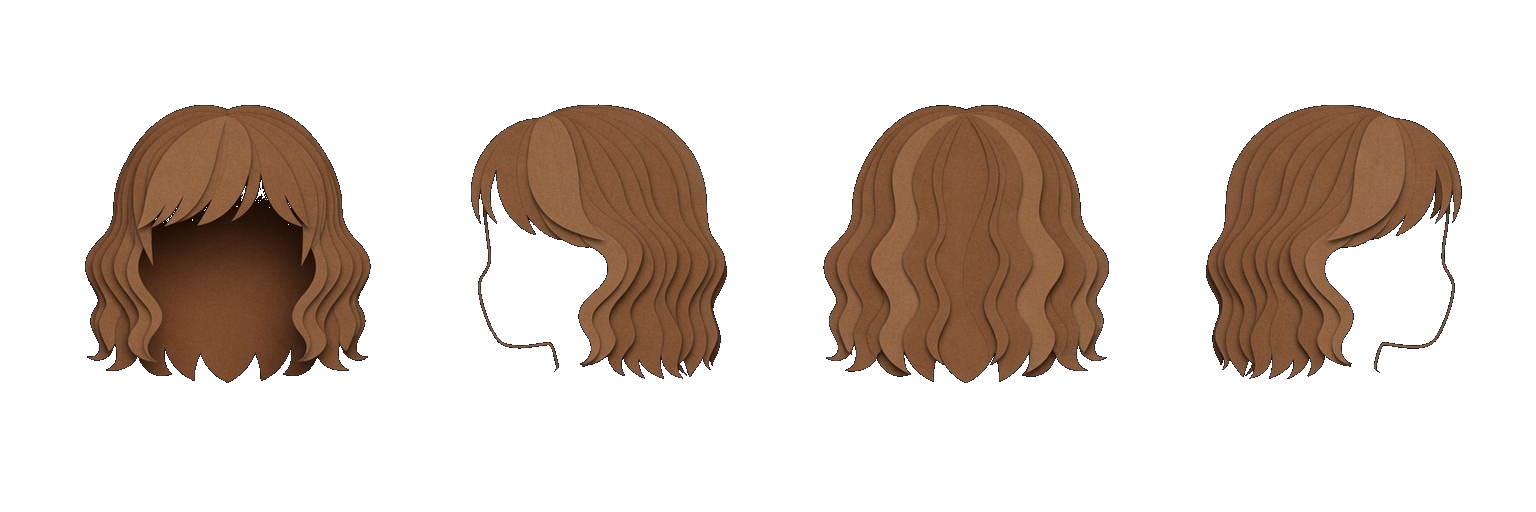
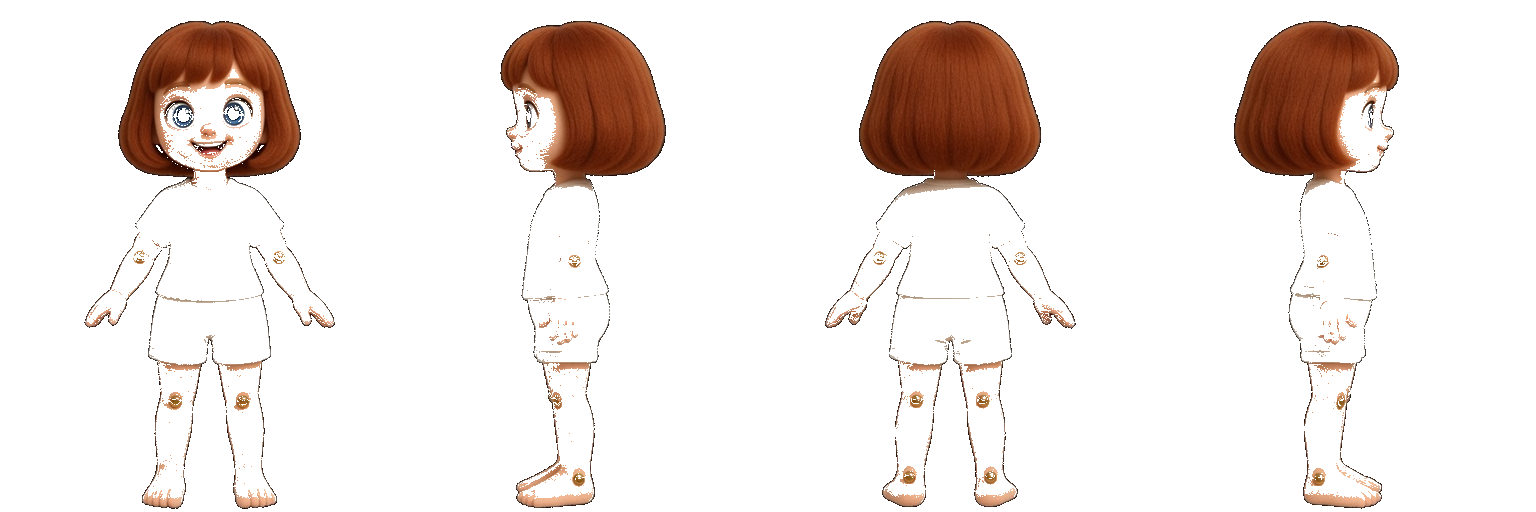
Give the girl full-head hair and a shelf of new mix-and-match collections.
Pigtails, bob, curls and waves cover the scalp. Twelve theme books open with clothes, hair and hats drawn on her real turnaround.

diff --git a/penny-fever/world/paper-dolls.js b/penny-fever/world/paper-dolls.js
@@ -1,5 +1,5 @@
 const ROOT = new URL('../assets/restyle/paper-dolls/', import.meta.url);
-const STORE = 'pf-paper-dolls-v8';
+const STORE = 'pf-paper-dolls-v9';
 const W = 1536, H = 512, CELL = 384;
 const images = new Map();
 const strips = new Map();
@@ -25,19 +25,31 @@ export const EYE_COLORS = [
 export const HAIR_STYLES = [
   { id: 'none', label: 'None' },
   { id: 'pigtails', label: 'Pigtails', fit: 'sheet' },
-  { id: 'short', label: 'Short curls', fit: 'head' },
+  { id: 'bob', label: 'Bob', fit: 'sheet' },
+  { id: 'curls', label: 'Curls', fit: 'sheet' },
+  { id: 'waves', label: 'Waves', fit: 'sheet' },
 ];
 export const HATS = [
   { id: 'none', label: 'None' },
   { id: 'straw', label: 'Straw hat' },
   { id: 'sailor', label: 'Sailor cap' },
+  { id: 'rain', label: 'Rain hat' },
+  { id: 'crown', label: 'Crown' },
 ];
 export const OUTFITS = [
   { id: 'none', label: 'Undershirt', book: null },
-  { id: 'garden', label: 'Garden party', book: 'garden-party-book' },
-  { id: 'seaside', label: 'Seaside day', book: 'seaside-day-book' },
-  { id: 'winter', label: 'Winter lantern', book: 'winter-lantern-book' },
-  { id: 'moonlight', label: 'Moonlight', book: 'moonlight-wardrobe' },
+  { id: 'garden', label: 'Rose pinafore' },
+  { id: 'seaside', label: 'Sailor set' },
+  { id: 'winter', label: 'Starry coat' },
+  { id: 'moonlight', label: 'Moon pinafore' },
+  { id: 'floss', label: 'Candy stripe' },
+  { id: 'picnic', label: 'Gingham picnic' },
+  { id: 'rain', label: 'Yellow mac' },
+  { id: 'bedtime', label: 'Star pyjamas' },
+  { id: 'midway', label: 'Admit one' },
+  { id: 'sunday', label: 'Sunday best' },
+  { id: 'fortune', label: 'Mystic lilac' },
+  { id: 'ballet', label: 'Ballet wrap' },
 ];
 export const DOLL_PAGES = {
   garden: 'assets/restyle/paper-dolls/pages/garden.jpg',
@@ -50,49 +62,22 @@ export const DOLL_PAGES = {
   'moonlight-wardrobe': 'assets/restyle/paper-dolls/pages/moonlight.jpg',
 };
 const P = 'assets/restyle/paper-dolls';
+const hair = (id, label) => ({ slot: 'hair', id, label, src: `${P}/hair/${id}.png` });
+const hat = (id, label) => ({ slot: 'hat', id, label, src: `${P}/hats/${id}.png` });
+const clothes = (id, label) => ({ slot: 'outfit', id, label, src: `${P}/outfits/${id}.png` });
 export const COLLECTIONS = [
-  {
-    id: 'garden',
-    label: 'Garden party',
-    book: 'garden-party-book',
-    page: DOLL_PAGES.garden,
-    pieces: [
-      { slot: 'hair', id: 'pigtails', label: 'Pigtails', src: `${P}/hair/pigtails.png` },
-      { slot: 'hat', id: 'straw', label: 'Straw hat', src: `${P}/hats/straw.png` },
-      { slot: 'outfit', id: 'garden', label: 'Rose pinafore', src: `${P}/outfits/garden.png`, includesHat: true },
-    ],
-  },
-  {
-    id: 'seaside',
-    label: 'Seaside day',
-    book: 'seaside-day-book',
-    page: DOLL_PAGES.seaside,
-    pieces: [
-      { slot: 'hair', id: 'short', label: 'Short curls', src: `${P}/hair/short.png` },
-      { slot: 'hat', id: 'sailor', label: 'Sailor cap', src: `${P}/hats/sailor.png` },
-      { slot: 'outfit', id: 'seaside', label: 'Sailor set', src: `${P}/outfits/seaside.png`, includesHat: true },
-    ],
-  },
-  {
-    id: 'winter',
-    label: 'Winter lantern',
-    book: 'winter-lantern-book',
-    page: DOLL_PAGES.winter,
-    pieces: [
-      { slot: 'hair', id: 'pigtails', label: 'Pigtails', src: `${P}/hair/pigtails.png` },
-      { slot: 'outfit', id: 'winter', label: 'Starry coat', src: `${P}/outfits/winter.png` },
-    ],
-  },
-  {
-    id: 'moonlight',
-    label: 'Moonlight',
-    book: 'moonlight-wardrobe',
-    page: DOLL_PAGES.moonlight,
-    pieces: [
-      { slot: 'hair', id: 'pigtails', label: 'Pigtails', src: `${P}/hair/pigtails.png` },
-      { slot: 'outfit', id: 'moonlight', label: 'Moon pinafore', src: `${P}/outfits/moonlight.png` },
-    ],
-  },
+  { id: 'garden', label: 'Garden party', page: DOLL_PAGES.garden, pieces: [hair('pigtails','Pigtails'), hair('bob','Bob'), hat('straw','Straw hat'), clothes('garden','Rose pinafore')] },
+  { id: 'seaside', label: 'Seaside day', page: DOLL_PAGES.seaside, pieces: [hair('curls','Curls'), hair('waves','Waves'), hat('sailor','Sailor cap'), clothes('seaside','Sailor set')] },
+  { id: 'winter', label: 'Winter lantern', page: DOLL_PAGES.winter, pieces: [hair('waves','Waves'), hair('bob','Bob'), clothes('winter','Starry coat')] },
+  { id: 'moonlight', label: 'Moonlight', page: DOLL_PAGES.moonlight, pieces: [hair('waves','Waves'), hair('pigtails','Pigtails'), clothes('moonlight','Moon pinafore')] },
+  { id: 'floss', label: 'Fairy floss', page: `${P}/outfits/floss.png`, pieces: [hair('pigtails','Pigtails'), hair('curls','Curls'), clothes('floss','Candy stripe')] },
+  { id: 'picnic', label: 'Picnic', page: `${P}/outfits/picnic.png`, pieces: [hair('bob','Bob'), hair('pigtails','Pigtails'), clothes('picnic','Gingham')] },
+  { id: 'rain', label: 'Rainy day', page: `${P}/outfits/rain.png`, pieces: [hair('bob','Bob'), hair('waves','Waves'), hat('rain','Rain hat'), clothes('rain','Yellow mac')] },
+  { id: 'bedtime', label: 'Bedtime', page: `${P}/outfits/bedtime.png`, pieces: [hair('waves','Waves'), hair('curls','Curls'), clothes('bedtime','Star pyjamas')] },
+  { id: 'midway', label: 'Admit one', page: `${P}/outfits/midway.png`, pieces: [hair('pigtails','Pigtails'), hair('curls','Curls'), hat('crown','Crown'), clothes('midway','Ticket pinafore')] },
+  { id: 'sunday', label: 'Sunday best', page: `${P}/outfits/sunday.png`, pieces: [hair('bob','Bob'), hair('waves','Waves'), clothes('sunday','Navy pinafore')] },
+  { id: 'fortune', label: 'Iris’s hour', page: `${P}/outfits/fortune.png`, pieces: [hair('waves','Waves'), hair('bob','Bob'), clothes('fortune','Mystic lilac')] },
+  { id: 'ballet', label: 'Ballet', page: `${P}/outfits/ballet.png`, pieces: [hair('bob','Bob'), hair('pigtails','Pigtails'), clothes('ballet','Wrap and tutu')] },
 ];
 export const NOSES = [
   { id: 'none', label: 'None' },

diff --git a/penny-fever/world/crew-selector.css b/penny-fever/world/crew-selector.css
@@ -12,7 +12,7 @@ dialog.crew-book.is-open,dialog.crew-book[open]{display:block;position:fixed;ins
 .doll-torso-preview{display:flex;flex-direction:column;align-items:center;padding:10px 12px 6px;background:#fffaf0;border:1px solid #c4a46a;border-radius:12px}
 .doll-maker-parts{flex:1;min-width:220px}
 .crew-collections .ticket-button{margin-top:10px}
-.doll-books{display:grid;grid-template-columns:1fr 1fr;gap:8px;margin:12px 0 8px}
+.doll-books{display:grid;grid-template-columns:repeat(3,1fr);gap:8px;margin:12px 0 8px}
 .doll-books button{padding:0;border:2px solid #c4a46a;background:#fffaf0;color:#382816;cursor:pointer;border-radius:8px;overflow:hidden;text-align:left}
 .doll-books button[aria-pressed=true],.doll-books button.is-on{border-color:#435637}
 .doll-books img{display:block;width:100%;height:auto}
@@ -57,6 +57,6 @@ dialog.crew-book.is-open,dialog.crew-book[open]{display:block;position:fixed;ins
 .crew-book.is-open-album #dollCollection{flex:1;min-height:0;overflow:auto}
 .crew-book.is-open-album .doll-piece-thumb{width:52px;height:70px;flex-basis:52px}
 .crew-book.is-open-album .doll-chip.doll-piece{border-radius:10px;padding:6px 10px 6px 6px}
-@media(max-width:640px){.crew-grid{grid-template-columns:repeat(3,1fr)}.crew-runway{height:240px}.crew-book{padding:18px}.doll-torso-preview{width:100%}.doll-maker-parts{width:100%}.crew-book.is-open-album{height:96dvh;padding:12px}.crew-book.is-open-album .doll-torso-row{flex-direction:column}.crew-book.is-open-album .doll-preview-stage{width:110px;height:146px}}
+@media(max-width:640px){.crew-grid{grid-template-columns:repeat(3,1fr)}.crew-runway{height:240px}.crew-book{padding:18px}.doll-torso-preview{width:100%}.doll-maker-parts{width:100%}.doll-books{grid-template-columns:1fr 1fr}.crew-book.is-open-album{height:96dvh;padding:12px}.crew-book.is-open-album .doll-torso-row{flex-direction:column}.crew-book.is-open-album .doll-preview-stage{width:110px;height:146px}}
 
 .crew-entry{display:flex;align-items:center;gap:14px;text-align:left}.crew-entry > div{flex:1;min-width:0}#chosenCrewPortrait{width:76px;flex:0 0 76px;height:101px;border:1px solid #b49360;border-radius:6px;background-color:#fffaf0;background-size:400% 100%;background-position:0 0;background-repeat:no-repeat}

diff --git a/penny-fever/world/alley.js b/penny-fever/world/alley.js
@@ -3,9 +3,9 @@
 import * as THREE from "./lib/three.module.min.js";
 import { mountRestyle, poseRestyle } from "./restyle.js?v=keep-light-1";
 import { installPaperProprietor, updatePaperProprietor } from "./paper-proprietor.js?v=keep-light-1";
-import { paperRail, makePaperEntrance, installCrewGuest, updateCrewGuest, FOYER_IN, FOYER_OUT } from "./paper-guest-entrance.js?v=doll-book-3";
+import { paperRail, makePaperEntrance, installCrewGuest, updateCrewGuest, FOYER_IN, FOYER_OUT } from "./paper-guest-entrance.js?v=doll-book-4";
 import { phoneLane } from "./phone-lane.js?v=keep-light-1";
-import { installPaperCrew, updatePaperCrew } from "./paper-crew.js?v=doll-book-3";
+import { installPaperCrew, updatePaperCrew } from "./paper-crew.js?v=doll-book-4";
 import { installIndividualVendors } from "./paper-vendors.js?v=keep-light-1";
 import {COUNTER, LOOP_START, makeVisibleTicketBooth, updateTicketBooth, extendPaperAlley, makePaperWalls, installTicketService, updateTicketService, paintAuraWallet} from "./paper-midway.js?v=aura-tools-1";
 import {openTill} from "./ticket-till.js?v=booth-till-1";

diff --git a/penny-fever/world/paper-guest-entrance.js b/penny-fever/world/paper-guest-entrance.js
@@ -1,5 +1,5 @@
 import * as THREE from './lib/three.module.min.js';
-import { getDoll, onDollChange, artUrl } from './crew-selector.js?v=doll-book-3';
+import { getDoll, onDollChange, artUrl } from './crew-selector.js?v=doll-book-4';
 import {loadWallArt} from './walls/art.js?v=keep-light-1';
 import {buildWall} from './walls/models.js?v=paper-alley-live-4';
 import { decorativePaper } from './paper-panels.js?v=keep-light-1';

diff --git a/penny-fever/world/paper-crew.js b/penny-fever/world/paper-crew.js
@@ -1,6 +1,6 @@
 import * as THREE from './lib/three.module.min.js';
 import { paperRail } from './paper-guest-entrance.js?v=keep-light-1';
-import { CREW_IDS, crewArt, getDoll, onDollChange } from './crew-selector.js?v=doll-book-3';
+import { CREW_IDS, crewArt, getDoll, onDollChange } from './crew-selector.js?v=doll-book-4';
 
 export const CREW = CREW_IDS.map((id) => id[0].toUpperCase() + id.slice(1));
 

diff --git a/penny-fever/world/crew-selector.js b/penny-fever/world/crew-selector.js
@@ -1,7 +1,7 @@
 import {
   SKINS, EYE_COLORS, COLLECTIONS,
   MINE_ID, blankDraft, composeDoll, keepMine, getMine, preloadDollArt,
-} from './paper-dolls.js?v=doll-book-3';
+} from './paper-dolls.js?v=doll-book-4';
 
 export const CREW_IDS = ['bluebell', 'ruby', 'violet', 'oliver', 'sunny', 'rowan'];
 const key = 'pf-selected-crew-v1';
